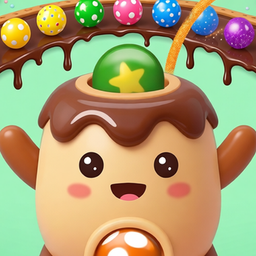
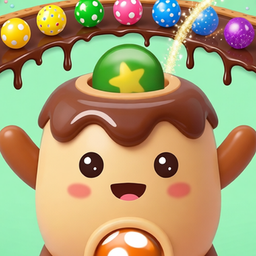
Candy Shot: rastro de faiscas no lugar do rastro laranja (capa, icone e imagem de compartilhamento)

Changed region(s): [[0.625, 0.0, 0.875, 0.3125]]

diff --git a/es/candy-shot/index.html b/es/candy-shot/index.html
@@ -14,6 +14,8 @@
 
 
 
+
+
 <meta charset="utf-8">
 <meta name="viewport" content="width=device-width, initial-scale=1, viewport-fit=cover">
 <title>Candy Shot - Bartel Games</title>
@@ -35,7 +37,7 @@
 <meta property="og:title" content="Candy Shot - Bartel Games">
 <meta property="og:description" content="Candy Shot: apunta el flan, dispara dulces y junta 3 colores para reventar la fila antes de que llegue al final. 60 niveles, modo sin fin, nivel del día y coop en línea con un amigo. Gratis, sin descargas.">
 <meta property="og:url" content="https://bartelgames.com.br/candy-shot/">
-<meta property="og:image" content="https://bartelgames.com.br/candy-shot/assets/og.jpg?v=2">
+<meta property="og:image" content="https://bartelgames.com.br/candy-shot/assets/og.jpg?v=3">
 <meta property="og:image:width" content="1200">
 <meta property="og:image:height" content="630">
 <meta name="twitter:card" content="summary_large_image">
@@ -112,7 +114,7 @@ body{font-family:var(--font);-webkit-tap-highlight-color:transparent;touch-actio
 <script src="../site.js"></script>
 <meta name="google-adsense-account" content="ca-pub-0483439498705157">
 <script async src="https://pagead2.googlesyndication.com/pagead/js/adsbygoogle.js?client=ca-pub-0483439498705157" crossorigin="anonymous"></script>
-<!--seo--><link rel="canonical" href="https://bartelgames.com.br/es/candy-shot/"><link rel="alternate" hreflang="en" href="https://bartelgames.com.br/candy-shot/"><link rel="alternate" hreflang="pt" href="https://bartelgames.com.br/pt/candy-shot/"><link rel="alternate" hreflang="es" href="https://bartelgames.com.br/es/candy-shot/"><link rel="alternate" hreflang="x-default" href="https://bartelgames.com.br/candy-shot/"><script type="application/ld+json">{"@context": "https://schema.org", "@type": "VideoGame", "name": "Candy Shot", "url": "https://bartelgames.com.br/es/candy-shot/", "description": "Candy Shot: apunta el flan, dispara dulces y junta 3 colores para reventar la fila antes de que llegue al final. 60 niveles, modo sin fin, nivel del día y coop en línea con un amigo. Gratis, sin descargas.", "image": "https://bartelgames.com.br/candy-shot/assets/og.jpg?v=2", "genre": ["Puzzle", "Arcade", "Casual"], "gamePlatform": ["Web browser", "Android", "iOS", "Windows", "macOS"], "applicationCategory": "Game", "operatingSystem": "Any", "playMode": ["SinglePlayer", "MultiPlayer"], "inLanguage": ["en", "pt", "es", "fr", "de", "it"], "isAccessibleForFree": true, "offers": {"@type": "Offer", "price": "0", "priceCurrency": "USD"}, "author": {"@type": "Organization", "name": "Bartel Games", "url": "https://bartelgames.com.br/"}, "publisher": {"@type": "Organization", "name": "Bartel Games", "url": "https://bartelgames.com.br/"}}</script><!--/seo-->
+<!--seo--><link rel="canonical" href="https://bartelgames.com.br/es/candy-shot/"><link rel="alternate" hreflang="en" href="https://bartelgames.com.br/candy-shot/"><link rel="alternate" hreflang="pt" href="https://bartelgames.com.br/pt/candy-shot/"><link rel="alternate" hreflang="es" href="https://bartelgames.com.br/es/candy-shot/"><link rel="alternate" hreflang="x-default" href="https://bartelgames.com.br/candy-shot/"><script type="application/ld+json">{"@context": "https://schema.org", "@type": "VideoGame", "name": "Candy Shot", "url": "https://bartelgames.com.br/es/candy-shot/", "description": "Candy Shot: apunta el flan, dispara dulces y junta 3 colores para reventar la fila antes de que llegue al final. 60 niveles, modo sin fin, nivel del día y coop en línea con un amigo. Gratis, sin descargas.", "image": "https://bartelgames.com.br/candy-shot/assets/og.jpg?v=3", "genre": ["Puzzle", "Arcade", "Casual"], "gamePlatform": ["Web browser", "Android", "iOS", "Windows", "macOS"], "applicationCategory": "Game", "operatingSystem": "Any", "playMode": ["SinglePlayer", "MultiPlayer"], "inLanguage": ["en", "pt", "es", "fr", "de", "it"], "isAccessibleForFree": true, "offers": {"@type": "Offer", "price": "0", "priceCurrency": "USD"}, "author": {"@type": "Organization", "name": "Bartel Games", "url": "https://bartelgames.com.br/"}, "publisher": {"@type": "Organization", "name": "Bartel Games", "url": "https://bartelgames.com.br/"}}</script><!--/seo-->
 </head>
 <body>
 <nav id="topbar"><a class="back" href="/es/"><svg viewBox="0 0 24 24" width="22" height="22" aria-hidden="true"><path d="M15 4 7 12l8 8" fill="none" stroke="currentColor" stroke-width="3.2" stroke-linecap="round" stroke-linejoin="round"/></svg><span data-i18n="more">More games</span></a><span class="tb-r"><button class="topinfo" type="button" aria-haspopup="dialog" aria-controls="howto" onclick="var d=document.getElementById('howto');d.showModal();d.scrollTop=0;document.getElementById('howto-t').focus({preventScroll:true})"><svg viewBox="0 0 24 24" width="20" height="20" aria-hidden="true"><circle cx="12" cy="12" r="10" fill="none" stroke="currentColor" stroke-width="2.4"/><path d="M12 11v6" stroke="currentColor" stroke-width="2.6" stroke-linecap="round"/><circle cx="12" cy="7.3" r="1.6" fill="currentColor"/></svg><span class="sr" data-i18n="how">How to play</span></button><button class="toplike" id="toplike" type="button" aria-pressed="false" data-i18n-label="like" hidden><svg class="ho" viewBox="0 0 24 24" width="20" height="20" aria-hidden="true"><path d="M12 20.5s-7.5-4.6-9.2-9.4C1.6 7.6 3.9 4 7.4 4c2 0 3.6 1.1 4.6 2.7C13 5.1 14.6 4 16.6 4c3.5 0 5.8 3.6 4.6 7.1-1.7 4.8-9.2 9.4-9.2 9.4z" fill="none" stroke="currentColor" stroke-width="2.3" stroke-linejoin="round"/></svg><svg class="hf" viewBox="0 0 24 24" width="20" height="20" aria-hidden="true"><path d="M12 20.5s-7.5-4.6-9.2-9.4C1.6 7.6 3.9 4 7.4 4c2 0 3.6 1.1 4.6 2.7C13 5.1 14.6 4 16.6 4c3.5 0 5.8 3.6 4.6 7.1-1.7 4.8-9.2 9.4-9.2 9.4z" fill="#ff3b5c" stroke="#ff3b5c" stroke-width="2.3" stroke-linejoin="round"/></svg><span class="lc"></span></button><button class="topshare" type="button" data-share><svg viewBox="0 0 24 24" width="20" height="20" aria-hidden="true"><path d="M12 3v12M7 8l5-5 5 5" fill="none" stroke="currentColor" stroke-width="2.6" stroke-linecap="round" stroke-linejoin="round"/><path d="M5 12v7a2 2 0 0 0 2 2h10a2 2 0 0 0 2-2v-7" fill="none" stroke="currentColor" stroke-width="2.6" stroke-linecap="round"/></svg><span data-i18n="share">Share</span></button></span></nav>

diff --git a/pt/candy-shot/index.html b/pt/candy-shot/index.html
@@ -14,6 +14,8 @@
 
 
 
+
+
 <meta charset="utf-8">
 <meta name="viewport" content="width=device-width, initial-scale=1, viewport-fit=cover">
 <title>Candy Shot - Bartel Games</title>
@@ -35,7 +37,7 @@
 <meta property="og:title" content="Candy Shot - Bartel Games">
 <meta property="og:description" content="Candy Shot: mire o pudim, atire doces e junte 3 cores para estourar a fila antes que ela chegue ao fim. 60 fases, modo sem fim, fase do dia e coop online com amigo. Grátis, sem download.">
 <meta property="og:url" content="https://bartelgames.com.br/candy-shot/">
-<meta property="og:image" content="https://bartelgames.com.br/candy-shot/assets/og.jpg?v=2">
+<meta property="og:image" content="https://bartelgames.com.br/candy-shot/assets/og.jpg?v=3">
 <meta property="og:image:width" content="1200">
 <meta property="og:image:height" content="630">
 <meta name="twitter:card" content="summary_large_image">
@@ -112,7 +114,7 @@ body{font-family:var(--font);-webkit-tap-highlight-color:transparent;touch-actio
 <script src="../site.js"></script>
 <meta name="google-adsense-account" content="ca-pub-0483439498705157">
 <script async src="https://pagead2.googlesyndication.com/pagead/js/adsbygoogle.js?client=ca-pub-0483439498705157" crossorigin="anonymous"></script>
-<!--seo--><link rel="canonical" href="https://bartelgames.com.br/pt/candy-shot/"><link rel="alternate" hreflang="en" href="https://bartelgames.com.br/candy-shot/"><link rel="alternate" hreflang="pt" href="https://bartelgames.com.br/pt/candy-shot/"><link rel="alternate" hreflang="es" href="https://bartelgames.com.br/es/candy-shot/"><link rel="alternate" hreflang="x-default" href="https://bartelgames.com.br/candy-shot/"><script type="application/ld+json">{"@context": "https://schema.org", "@type": "VideoGame", "name": "Candy Shot", "url": "https://bartelgames.com.br/pt/candy-shot/", "description": "Candy Shot: mire o pudim, atire doces e junte 3 cores para estourar a fila antes que ela chegue ao fim. 60 fases, modo sem fim, fase do dia e coop online com amigo. Grátis, sem download.", "image": "https://bartelgames.com.br/candy-shot/assets/og.jpg?v=2", "genre": ["Puzzle", "Arcade", "Casual"], "gamePlatform": ["Web browser", "Android", "iOS", "Windows", "macOS"], "applicationCategory": "Game", "operatingSystem": "Any", "playMode": ["SinglePlayer", "MultiPlayer"], "inLanguage": ["en", "pt", "es", "fr", "de", "it"], "isAccessibleForFree": true, "offers": {"@type": "Offer", "price": "0", "priceCurrency": "USD"}, "author": {"@type": "Organization", "name": "Bartel Games", "url": "https://bartelgames.com.br/"}, "publisher": {"@type": "Organization", "name": "Bartel Games", "url": "https://bartelgames.com.br/"}}</script><!--/seo-->
+<!--seo--><link rel="canonical" href="https://bartelgames.com.br/pt/candy-shot/"><link rel="alternate" hreflang="en" href="https://bartelgames.com.br/candy-shot/"><link rel="alternate" hreflang="pt" href="https://bartelgames.com.br/pt/candy-shot/"><link rel="alternate" hreflang="es" href="https://bartelgames.com.br/es/candy-shot/"><link rel="alternate" hreflang="x-default" href="https://bartelgames.com.br/candy-shot/"><script type="application/ld+json">{"@context": "https://schema.org", "@type": "VideoGame", "name": "Candy Shot", "url": "https://bartelgames.com.br/pt/candy-shot/", "description": "Candy Shot: mire o pudim, atire doces e junte 3 cores para estourar a fila antes que ela chegue ao fim. 60 fases, modo sem fim, fase do dia e coop online com amigo. Grátis, sem download.", "image": "https://bartelgames.com.br/candy-shot/assets/og.jpg?v=3", "genre": ["Puzzle", "Arcade", "Casual"], "gamePlatform": ["Web browser", "Android", "iOS", "Windows", "macOS"], "applicationCategory": "Game", "operatingSystem": "Any", "playMode": ["SinglePlayer", "MultiPlayer"], "inLanguage": ["en", "pt", "es", "fr", "de", "it"], "isAccessibleForFree": true, "offers": {"@type": "Offer", "price": "0", "priceCurrency": "USD"}, "author": {"@type": "Organization", "name": "Bartel Games", "url": "https://bartelgames.com.br/"}, "publisher": {"@type": "Organization", "name": "Bartel Games", "url": "https://bartelgames.com.br/"}}</script><!--/seo-->
 </head>
 <body>
 <nav id="topbar"><a class="back" href="/pt/"><svg viewBox="0 0 24 24" width="22" height="22" aria-hidden="true"><path d="M15 4 7 12l8 8" fill="none" stroke="currentColor" stroke-width="3.2" stroke-linecap="round" stroke-linejoin="round"/></svg><span data-i18n="more">More games</span></a><span class="tb-r"><button class="topinfo" type="button" aria-haspopup="dialog" aria-controls="howto" onclick="var d=document.getElementById('howto');d.showModal();d.scrollTop=0;document.getElementById('howto-t').focus({preventScroll:true})"><svg viewBox="0 0 24 24" width="20" height="20" aria-hidden="true"><circle cx="12" cy="12" r="10" fill="none" stroke="currentColor" stroke-width="2.4"/><path d="M12 11v6" stroke="currentColor" stroke-width="2.6" stroke-linecap="round"/><circle cx="12" cy="7.3" r="1.6" fill="currentColor"/></svg><span class="sr" data-i18n="how">How to play</span></button><button class="toplike" id="toplike" type="button" aria-pressed="false" data-i18n-label="like" hidden><svg class="ho" viewBox="0 0 24 24" width="20" height="20" aria-hidden="true"><path d="M12 20.5s-7.5-4.6-9.2-9.4C1.6 7.6 3.9 4 7.4 4c2 0 3.6 1.1 4.6 2.7C13 5.1 14.6 4 16.6 4c3.5 0 5.8 3.6 4.6 7.1-1.7 4.8-9.2 9.4-9.2 9.4z" fill="none" stroke="currentColor" stroke-width="2.3" stroke-linejoin="round"/></svg><svg class="hf" viewBox="0 0 24 24" width="20" height="20" aria-hidden="true"><path d="M12 20.5s-7.5-4.6-9.2-9.4C1.6 7.6 3.9 4 7.4 4c2 0 3.6 1.1 4.6 2.7C13 5.1 14.6 4 16.6 4c3.5 0 5.8 3.6 4.6 7.1-1.7 4.8-9.2 9.4-9.2 9.4z" fill="#ff3b5c" stroke="#ff3b5c" stroke-width="2.3" stroke-linejoin="round"/></svg><span class="lc"></span></button><button class="topshare" type="button" data-share><svg viewBox="0 0 24 24" width="20" height="20" aria-hidden="true"><path d="M12 3v12M7 8l5-5 5 5" fill="none" stroke="currentColor" stroke-width="2.6" stroke-linecap="round" stroke-linejoin="round"/><path d="M5 12v7a2 2 0 0 0 2 2h10a2 2 0 0 0 2-2v-7" fill="none" stroke="currentColor" stroke-width="2.6" stroke-linecap="round"/></svg><span data-i18n="share">Share</span></button></span></nav>

diff --git a/candy-shot/index.html b/candy-shot/index.html
@@ -14,6 +14,8 @@
 
 
 
+
+
 <meta charset="utf-8">
 <meta name="viewport" content="width=device-width, initial-scale=1, viewport-fit=cover">
 <title>Candy Shot - Bartel Games</title>
@@ -35,7 +37,7 @@
 <meta property="og:title" content="Candy Shot">
 <meta property="og:description" content="Aim, shoot candies and match 3 colors before the line reaches the end. Can you get 3 stars?">
 <meta property="og:url" content="https://bartelgames.com.br/candy-shot/">
-<meta property="og:image" content="https://bartelgames.com.br/candy-shot/assets/og.jpg?v=2">
+<meta property="og:image" content="https://bartelgames.com.br/candy-shot/assets/og.jpg?v=3">
 <meta property="og:image:width" content="1200">
 <meta property="og:image:height" content="630">
 <meta name="twitter:card" content="summary_large_image">
@@ -112,7 +114,7 @@ body{font-family:var(--font);-webkit-tap-highlight-color:transparent;touch-actio
 <script src="../site.js"></script>
 <meta name="google-adsense-account" content="ca-pub-0483439498705157">
 <script async src="https://pagead2.googlesyndication.com/pagead/js/adsbygoogle.js?client=ca-pub-0483439498705157" crossorigin="anonymous"></script>
-<!--seo--><link rel="canonical" href="https://bartelgames.com.br/candy-shot/"><link rel="alternate" hreflang="en" href="https://bartelgames.com.br/candy-shot/"><link rel="alternate" hreflang="pt" href="https://bartelgames.com.br/pt/candy-shot/"><link rel="alternate" hreflang="es" href="https://bartelgames.com.br/es/candy-shot/"><link rel="alternate" hreflang="x-default" href="https://bartelgames.com.br/candy-shot/"><script type="application/ld+json">{"@context": "https://schema.org", "@type": "VideoGame", "name": "Candy Shot", "url": "https://bartelgames.com.br/candy-shot/", "description": "Candy Shot: aim the pudding, shoot candies and match 3 colors to pop the line before it reaches the end. 60 levels, endless mode, daily level and online coop. Free, no download.", "image": "https://bartelgames.com.br/candy-shot/assets/og.jpg?v=2", "genre": ["Puzzle", "Arcade", "Casual"], "gamePlatform": ["Web browser", "Android", "iOS", "Windows", "macOS"], "applicationCategory": "Game", "operatingSystem": "Any", "playMode": ["SinglePlayer", "MultiPlayer"], "inLanguage": ["en", "pt", "es", "fr", "de", "it"], "isAccessibleForFree": true, "offers": {"@type": "Offer", "price": "0", "priceCurrency": "USD"}, "author": {"@type": "Organization", "name": "Bartel Games", "url": "https://bartelgames.com.br/"}, "publisher": {"@type": "Organization", "name": "Bartel Games", "url": "https://bartelgames.com.br/"}}</script><!--/seo-->
+<!--seo--><link rel="canonical" href="https://bartelgames.com.br/candy-shot/"><link rel="alternate" hreflang="en" href="https://bartelgames.com.br/candy-shot/"><link rel="alternate" hreflang="pt" href="https://bartelgames.com.br/pt/candy-shot/"><link rel="alternate" hreflang="es" href="https://bartelgames.com.br/es/candy-shot/"><link rel="alternate" hreflang="x-default" href="https://bartelgames.com.br/candy-shot/"><script type="application/ld+json">{"@context": "https://schema.org", "@type": "VideoGame", "name": "Candy Shot", "url": "https://bartelgames.com.br/candy-shot/", "description": "Candy Shot: aim the pudding, shoot candies and match 3 colors to pop the line before it reaches the end. 60 levels, endless mode, daily level and online coop. Free, no download.", "image": "https://bartelgames.com.br/candy-shot/assets/og.jpg?v=3", "genre": ["Puzzle", "Arcade", "Casual"], "gamePlatform": ["Web browser", "Android", "iOS", "Windows", "macOS"], "applicationCategory": "Game", "operatingSystem": "Any", "playMode": ["SinglePlayer", "MultiPlayer"], "inLanguage": ["en", "pt", "es", "fr", "de", "it"], "isAccessibleForFree": true, "offers": {"@type": "Offer", "price": "0", "priceCurrency": "USD"}, "author": {"@type": "Organization", "name": "Bartel Games", "url": "https://bartelgames.com.br/"}, "publisher": {"@type": "Organization", "name": "Bartel Games", "url": "https://bartelgames.com.br/"}}</script><!--/seo-->
 </head>
 <body>
 <nav id="topbar"><a class="back" href="../"><svg viewBox="0 0 24 24" width="22" height="22" aria-hidden="true"><path d="M15 4 7 12l8 8" fill="none" stroke="currentColor" stroke-width="3.2" stroke-linecap="round" stroke-linejoin="round"/></svg><span data-i18n="more">More games</span></a><span class="tb-r"><button class="topinfo" type="button" aria-haspopup="dialog" aria-controls="howto" onclick="var d=document.getElementById('howto');d.showModal();d.scrollTop=0;document.getElementById('howto-t').focus({preventScroll:true})"><svg viewBox="0 0 24 24" width="20" height="20" aria-hidden="true"><circle cx="12" cy="12" r="10" fill="none" stroke="currentColor" stroke-width="2.4"/><path d="M12 11v6" stroke="currentColor" stroke-width="2.6" stroke-linecap="round"/><circle cx="12" cy="7.3" r="1.6" fill="currentColor"/></svg><span class="sr" data-i18n="how">How to play</span></button><button class="toplike" id="toplike" type="button" aria-pressed="false" data-i18n-label="like" hidden><svg class="ho" viewBox="0 0 24 24" width="20" height="20" aria-hidden="true"><path d="M12 20.5s-7.5-4.6-9.2-9.4C1.6 7.6 3.9 4 7.4 4c2 0 3.6 1.1 4.6 2.7C13 5.1 14.6 4 16.6 4c3.5 0 5.8 3.6 4.6 7.1-1.7 4.8-9.2 9.4-9.2 9.4z" fill="none" stroke="currentColor" stroke-width="2.3" stroke-linejoin="round"/></svg><svg class="hf" viewBox="0 0 24 24" width="20" height="20" aria-hidden="true"><path d="M12 20.5s-7.5-4.6-9.2-9.4C1.6 7.6 3.9 4 7.4 4c2 0 3.6 1.1 4.6 2.7C13 5.1 14.6 4 16.6 4c3.5 0 5.8 3.6 4.6 7.1-1.7 4.8-9.2 9.4-9.2 9.4z" fill="#ff3b5c" stroke="#ff3b5c" stroke-width="2.3" stroke-linejoin="round"/></svg><span class="lc"></span></button><button class="topshare" type="button" data-share><svg viewBox="0 0 24 24" width="20" height="20" aria-hidden="true"><path d="M12 3v12M7 8l5-5 5 5" fill="none" stroke="currentColor" stroke-width="2.6" stroke-linecap="round" stroke-linejoin="round"/><path d="M5 12v7a2 2 0 0 0 2 2h10a2 2 0 0 0 2-2v-7" fill="none" stroke="currentColor" stroke-width="2.6" stroke-linecap="round"/></svg><span data-i18n="share">Share</span></button></span></nav>

diff --git a/es/index.html b/es/index.html
@@ -73,7 +73,7 @@
       </a>
       <a class="card" href="es/candy-shot/" data-game="candy-shot">
         <div class="thumb">
-          <img class="cover" src="candy-shot/assets/cover.jpg?v=3" alt="" width="600" height="800" fetchpriority="high">
+          <img class="cover" src="candy-shot/assets/cover.jpg?v=4" alt="" width="600" height="800" fetchpriority="high">
           <span class="cover-t" aria-hidden="true"><span>Candy</span><span>Shot</span></span>
         </div>
         <div class="info">

diff --git a/pt/index.html b/pt/index.html
@@ -73,7 +73,7 @@
       </a>
       <a class="card" href="pt/candy-shot/" data-game="candy-shot">
         <div class="thumb">
-          <img class="cover" src="candy-shot/assets/cover.jpg?v=3" alt="" width="600" height="800" fetchpriority="high">
+          <img class="cover" src="candy-shot/assets/cover.jpg?v=4" alt="" width="600" height="800" fetchpriority="high">
           <span class="cover-t" aria-hidden="true"><span>Candy</span><span>Shot</span></span>
         </div>
         <div class="info">

diff --git a/index.html b/index.html
@@ -72,7 +72,7 @@
       </a>
       <a class="card" href="candy-shot/" data-game="candy-shot">
         <div class="thumb">
-          <img class="cover" src="candy-shot/assets/cover.jpg?v=3" alt="" width="600" height="800" fetchpriority="high">
+          <img class="cover" src="candy-shot/assets/cover.jpg?v=4" alt="" width="600" height="800" fetchpriority="high">
           <span class="cover-t" aria-hidden="true"><span>Candy</span><span>Shot</span></span>
         </div>
         <div class="info">
